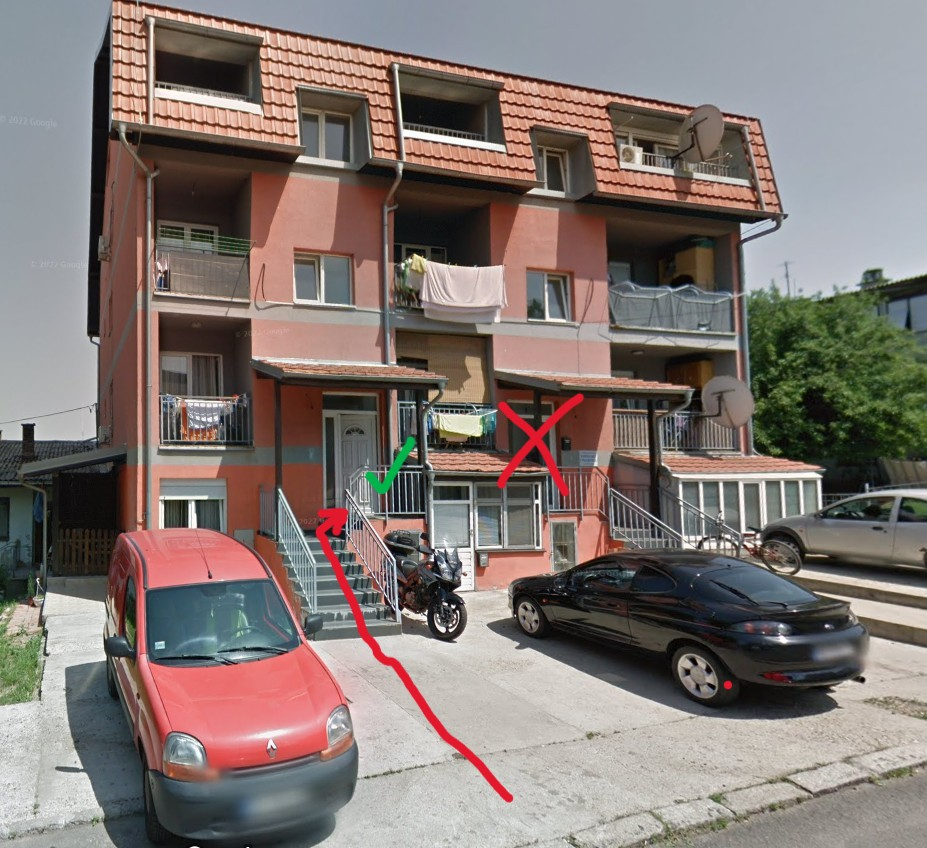
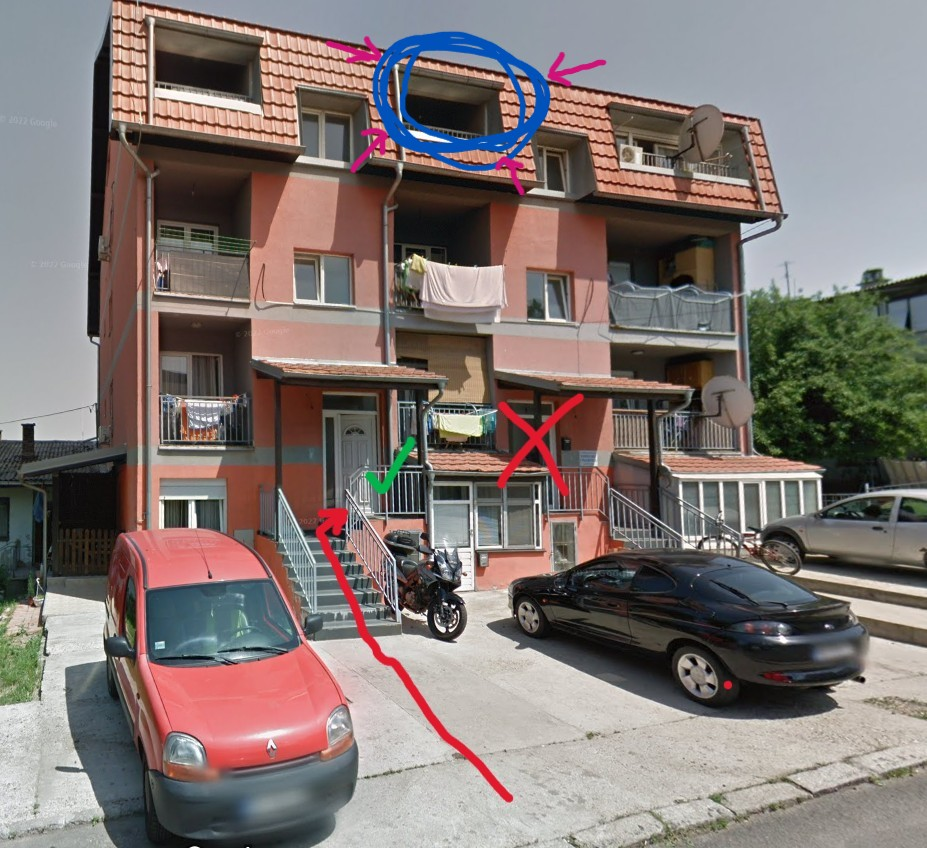
doradjena slika zgrade

Changed region(s): [[0.3323, 0.0307, 0.6645, 0.2453], [0.3625, 0.184, 0.3927, 0.2146]]

diff --git a/index.html b/index.html
@@ -64,8 +64,9 @@
             <iframe id = "map" src="https://www.google.com/maps/embed?pb=!1m17!1m12!1m3!1d1346.7359126598392!2d20.500953471196734!3d44.746545997443036!2m3!1f0!2f0!3f0!3m2!1i1024!2i768!4f13.1!3m2!1m1!2zNDTCsDQ0JzQ3LjYiTiAyMMKwMzAnMDYuMiJF!5e1!3m2!1ssr!2srs!4v1742418357602!5m2!1ssr!2srs"  allowfullscreen="" loading="lazy" referrerpolicy="no-referrer-when-downgrade"></iframe>    
         </div>
 
-        <p>Znaam prosto da nećete umeti da nađete ulaz na zgradi a možda ni zgradu tako da evo slike i toga</p>
+        <p>Znaam prosto da nećete umeti da nađete ulaz na zgradi, a možda ni zgradu tako da evo slike i toga</p>
         <img src="images/zgrada.jpg" alt="Puko sajt nema slike">
+        <h2>Stan broj 13</h2>
         <p>Da mrzelo me je da sam uslikam sliku ovo je sa mapa skrin, al da nisam rekao ne biste skontali tkd pušionica </p>
 
     </section>
